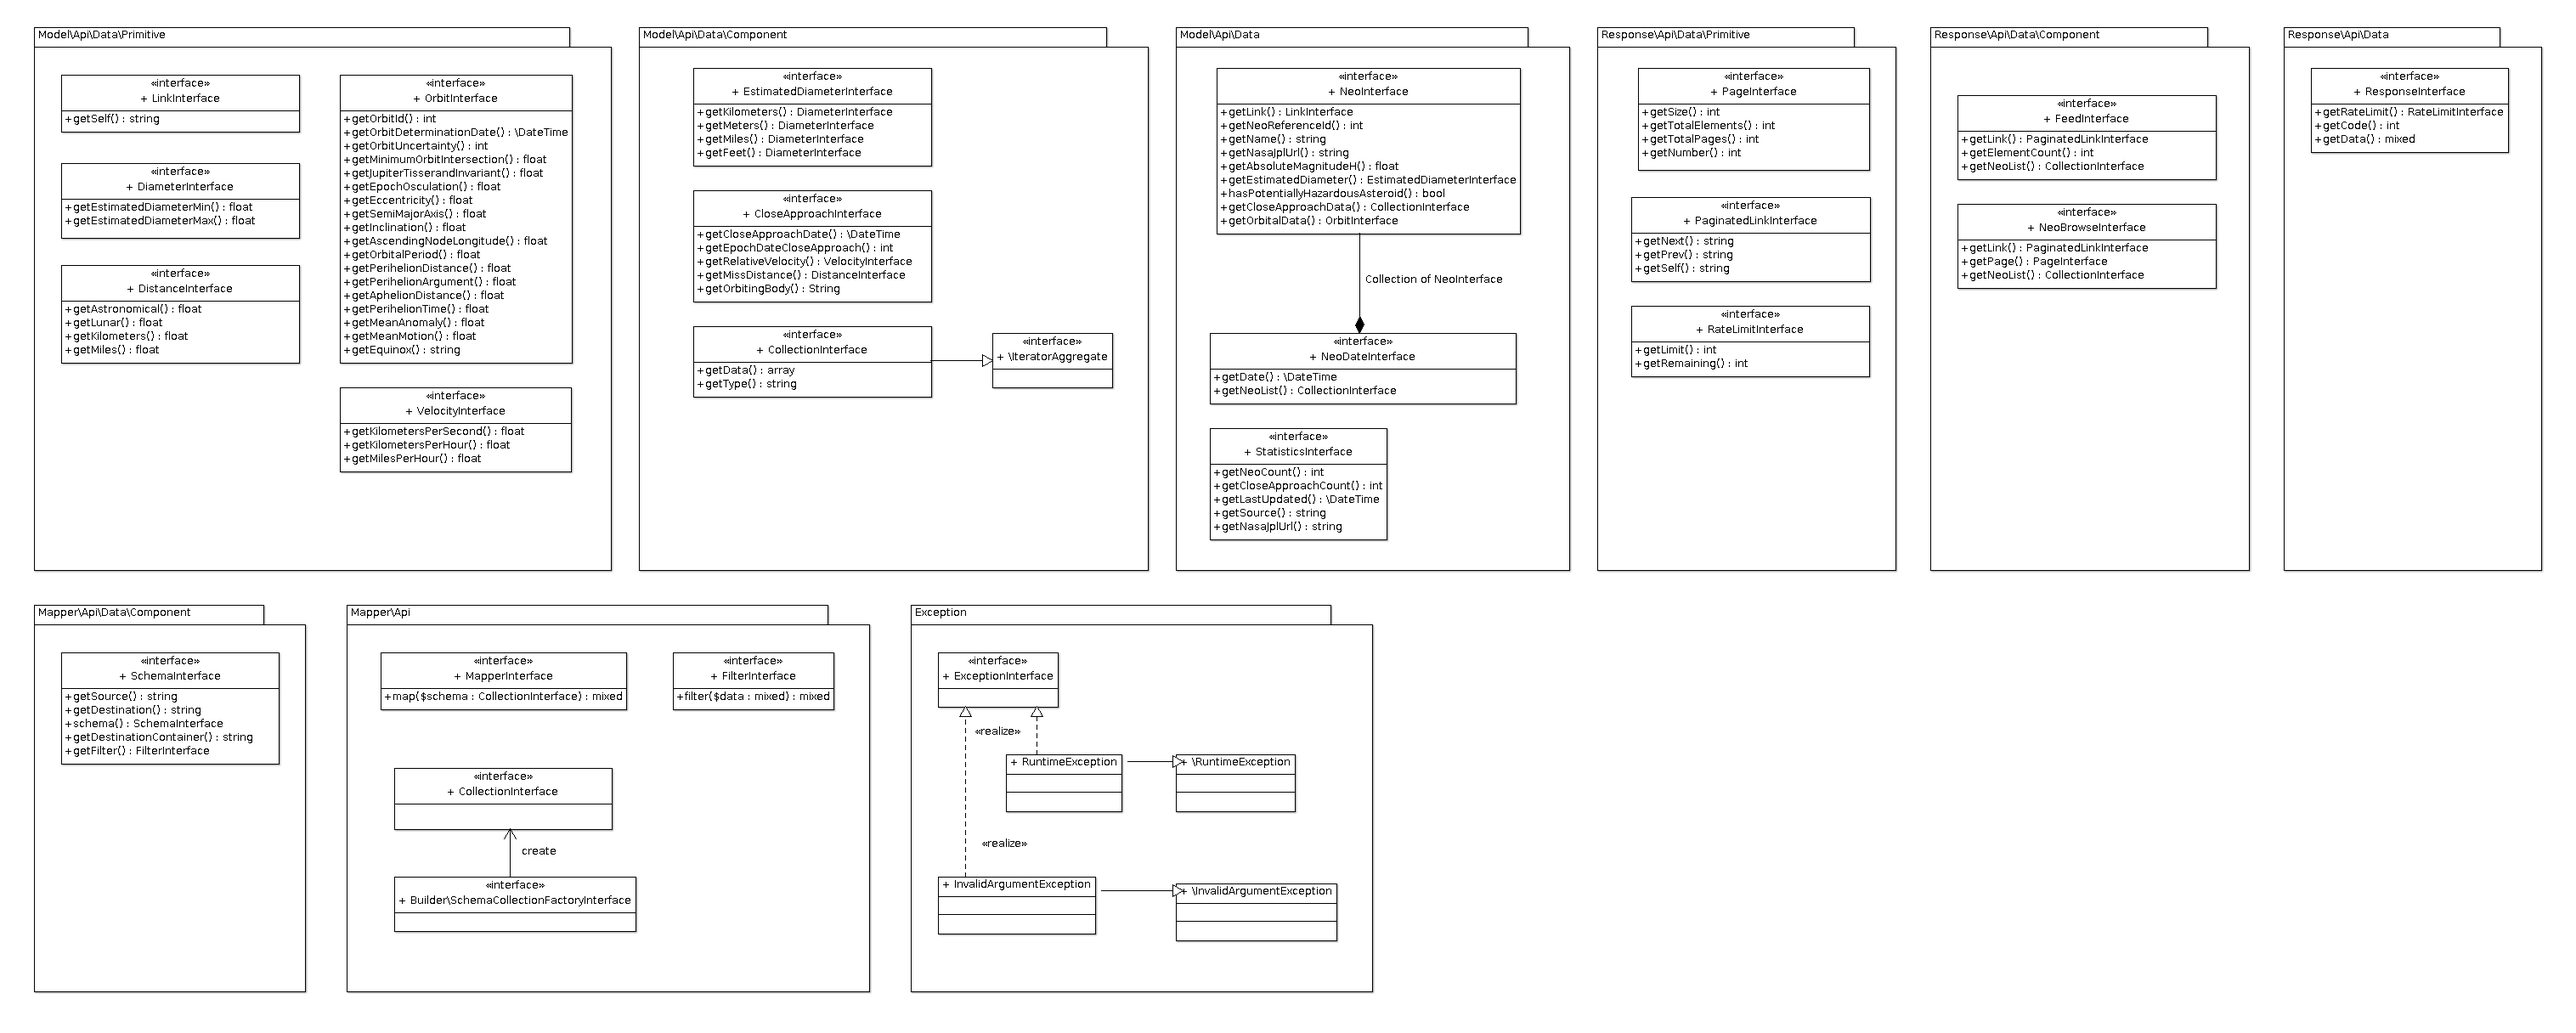
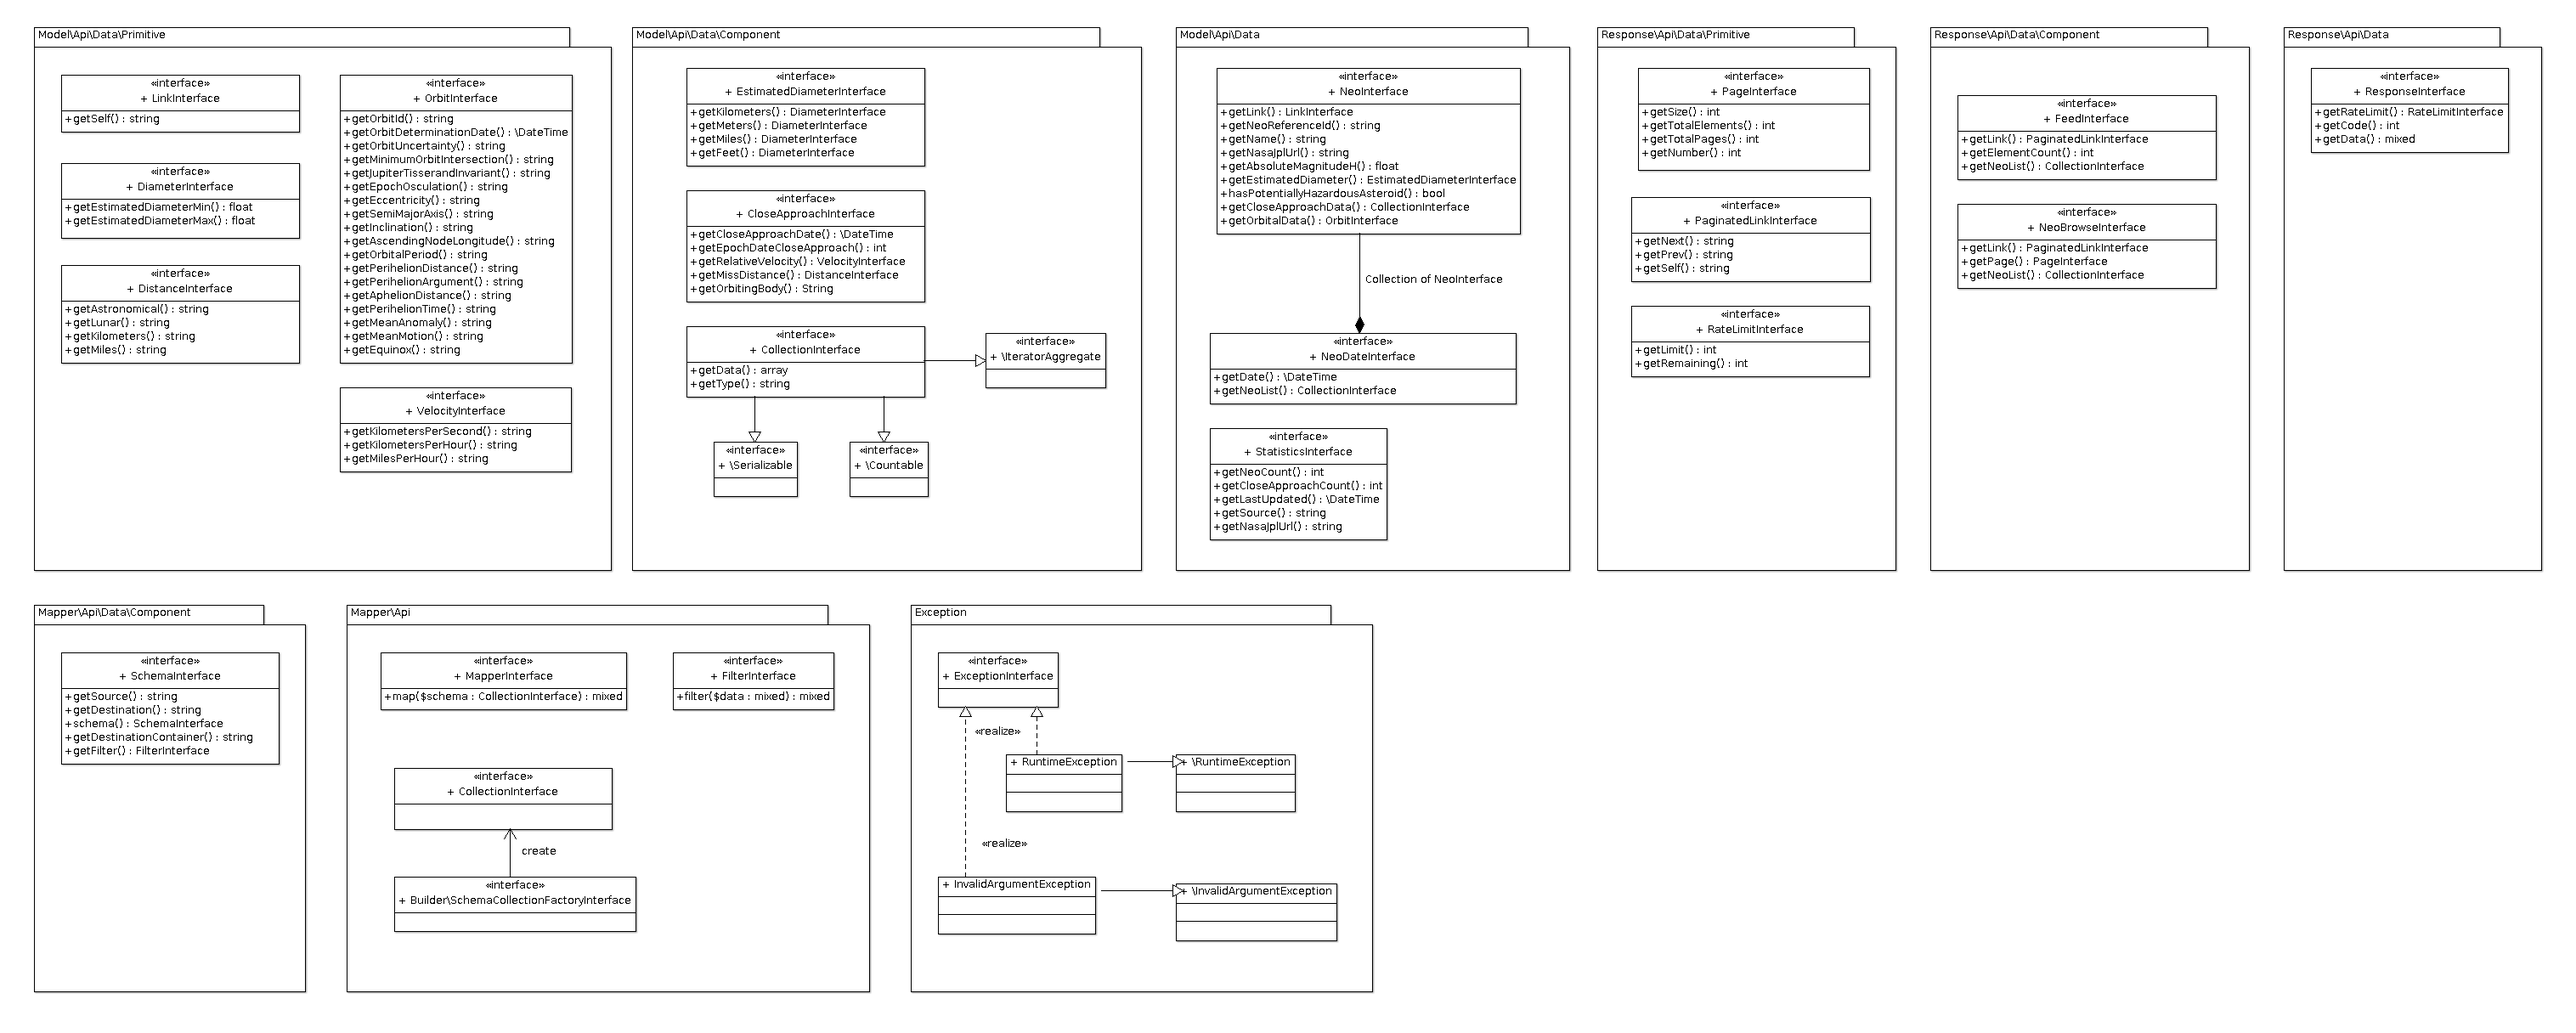
Aded serializer to collection

diff --git a/src/Model/Data/Component/Collection.php b/src/Model/Data/Component/Collection.php
@@ -40,8 +40,6 @@ class Collection implements CollectionInterface
     {
         $this->setPropertySimple('type', $data, 'string');
         $this->setPropertySimple('data', $data, 'array');
-
-        $this->iterator = new \ArrayIterator($data);
     }
 
     /**
@@ -65,6 +63,10 @@ class Collection implements CollectionInterface
      */
     public function getIterator()
     {
+        if (is_null($this->iterator)) {
+            $this->iterator = new \ArrayIterator($this->data);
+        }
+
         return $this->iterator;
     }
 
@@ -78,5 +80,21 @@ class Collection implements CollectionInterface
         }
 
         return $this->count;
+    }
+
+    /**
+     * @inheritDoc
+     */
+    public function serialize()
+    {
+        return serialize([$this->type, $this->data]);
+    }
+
+    /**
+     * @inheritDoc
+     */
+    public function unserialize($serialized)
+    {
+        list($this->type, $this->data) = unserialize($serialized);
     }
 }

diff --git a/src/Model/Api/Data/Component/CollectionInterface.php b/src/Model/Api/Data/Component/CollectionInterface.php
@@ -4,7 +4,7 @@ namespace Picamator\NeoWsClient\Model\Api\Data\Component;
 /**
  * Collection
  */
-interface CollectionInterface extends \IteratorAggregate, \Countable
+interface CollectionInterface extends \IteratorAggregate, \Countable, \Serializable
 {
     /**
      * Get data
